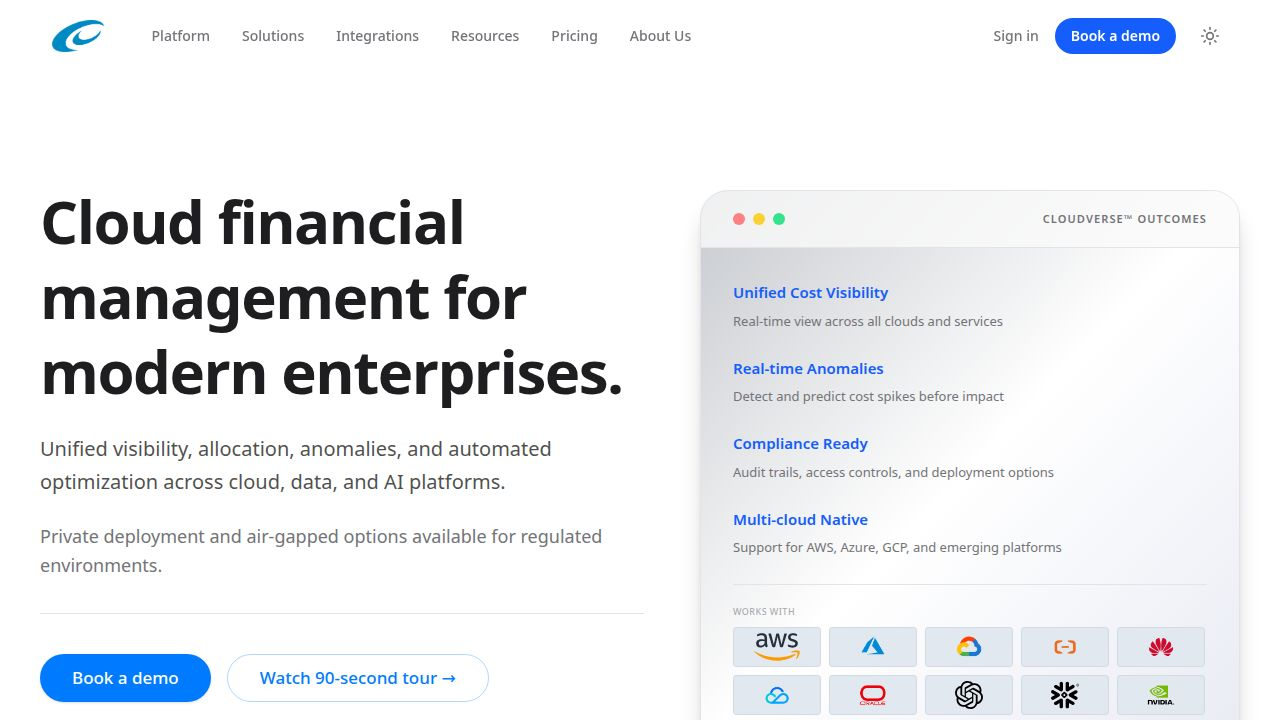
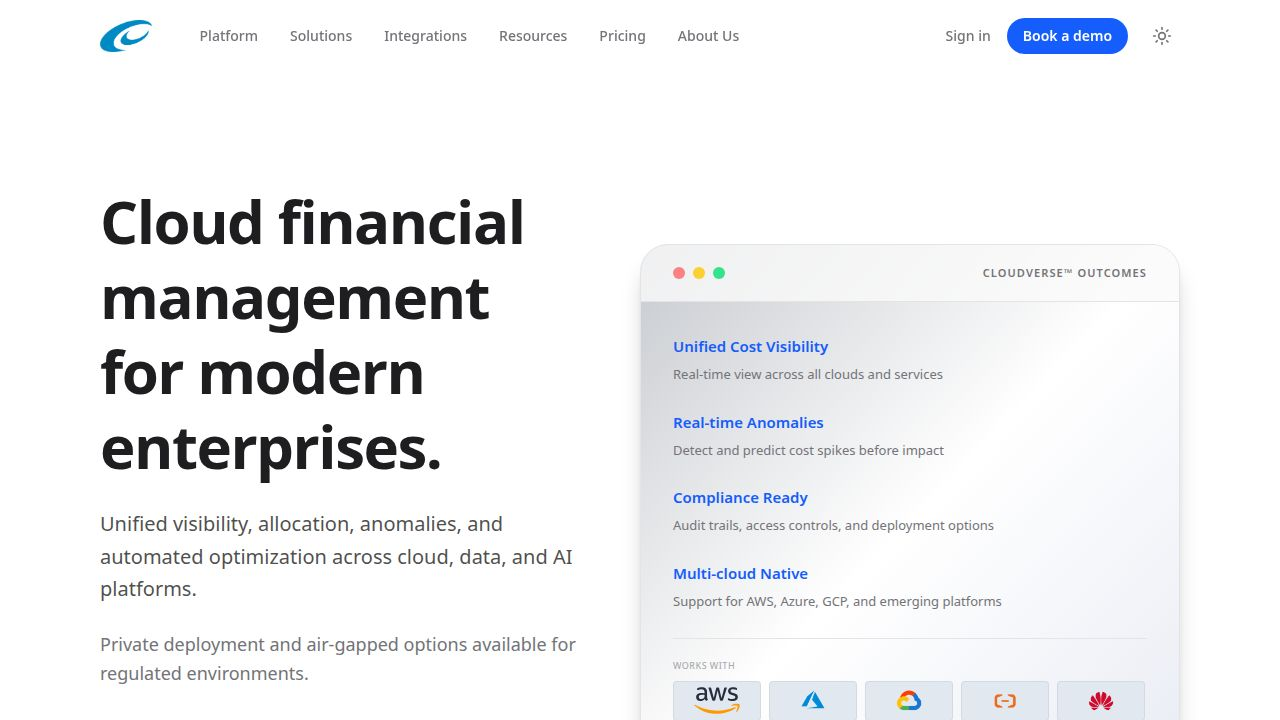
Standardize website padding and layout for better mobile responsiveness
Adjusted section padding and container widths across multiple pages (BookDemo, Contact, Help, Home, Integrations, Legal, Pricing, Resources, Tour) to ensure consistent responsive behavior and prevent horizontal overflow on smaller screens. Updated hero section padding to a mobile-first approach and refined horizontal padding for broader compatibility.

Replit-Commit-Author: Agent
Replit-Commit-Session-Id: cc55be88-6012-4923-a548-e605ac5f138f
Replit-Commit-Checkpoint-Type: intermediate_checkpoint
Replit-Commit-Event-Id: b250a58a-af97-4b04-b53c-2de91e7fcf4b
Replit-Commit-Screenshot-Url: https://storage.googleapis.com/screenshot-production-us-central1/d8dacd2f-b214-4560-9121-caa3bb9575fb/cc55be88-6012-4923-a548-e605ac5f138f/ae2ERlS
Replit-Helium-Checkpoint-Created: true

diff --git a/client/src/pages/Home.tsx b/client/src/pages/Home.tsx
@@ -69,9 +69,9 @@ export default function Home() {
   return (
     <BaseLayout>
       {/* Hero Section */}
-      <section className="relative sm:pt-24 lg:pt-28 sm:pb-14 lg:pb-16 overflow-hidden pt-[50px] pb-[50px]">
+      <section className="relative pt-20 sm:pt-24 lg:pt-28 pb-12 sm:pb-14 lg:pb-16 overflow-hidden">
         <MotionHeroBackground />
-        <div className="max-w-[1400px] mx-auto px-5 sm:px-6 lg:px-10 relative z-10">
+        <div className="max-w-[1240px] mx-auto px-5 sm:px-6 lg:px-20 relative z-10">
           <div className="grid grid-cols-1 lg:grid-cols-[1fr_auto] gap-10 lg:gap-14 items-center">
             {/* Left: Copy Block */}
             <div className="text-center lg:text-left space-y-4 sm:space-y-6 max-w-[52rem] mx-auto lg:mx-0">

diff --git a/client/src/pages/Resources.tsx b/client/src/pages/Resources.tsx
@@ -14,7 +14,7 @@ export default function Resources() {
   return (
     <BaseLayout>
       {/* Hero */}
-      <section className="pt-24 sm:pt-28 lg:pt-32 pb-14 sm:pb-16 lg:pb-20">
+      <section className="pt-20 sm:pt-24 lg:pt-28 pb-12 sm:pb-14 lg:pb-16">
         <div className="cv-container-full space-y-4 sm:space-y-6">
           <div className="max-w-3xl">
             <span className="text-xs uppercase tracking-widest text-cv-muted mb-4 inline-block">CloudVerse™ Resources</span>

diff --git a/client/src/pages/BookDemo.tsx b/client/src/pages/BookDemo.tsx
@@ -9,7 +9,7 @@ export default function BookDemo() {
 
   return (
     <BaseLayout>
-      <section className="pt-20 sm:pt-24 lg:pt-32 pb-16 sm:pb-20 lg:pb-24">
+      <section className="pt-20 sm:pt-24 lg:pt-28 pb-12 sm:pb-16 lg:pb-20">
         <div className="max-w-[1240px] mx-auto px-5 sm:px-6 lg:px-20">
           <div className="max-w-3xl mx-auto text-center">
             <h1 className="text-4xl sm:text-5xl lg:text-6xl font-bold tracking-tight text-cv-ink mb-6">

diff --git a/client/src/pages/Integrations.tsx b/client/src/pages/Integrations.tsx
@@ -36,7 +36,7 @@ export default function Integrations() {
   return (
     <BaseLayout>
       {/* Hero */}
-      <section className="pt-24 sm:pt-28 lg:pt-32 pb-14 sm:pb-16 lg:pb-20">
+      <section className="pt-20 sm:pt-24 lg:pt-28 pb-12 sm:pb-14 lg:pb-16">
         <div className="cv-container-full space-y-6">
           <div className="max-w-[900px]">
             <span className="cv-cap font-semibold tracking-widest text-cv-muted uppercase mb-4 inline-block">

diff --git a/client/src/pages/Tour.tsx b/client/src/pages/Tour.tsx
@@ -8,7 +8,7 @@ export default function Tour() {
 
   return (
     <BaseLayout>
-      <section className="pt-20 sm:pt-24 lg:pt-32 pb-16 sm:pb-20 lg:pb-24">
+      <section className="pt-20 sm:pt-24 lg:pt-28 pb-12 sm:pb-16 lg:pb-20">
         <div className="max-w-[1240px] mx-auto px-5 sm:px-6 lg:px-20">
           <div className="max-w-3xl mx-auto text-center">
             <h1 className="text-4xl sm:text-5xl lg:text-6xl font-bold tracking-tight text-cv-ink mb-6">

diff --git a/client/src/pages/Pricing.tsx b/client/src/pages/Pricing.tsx
@@ -59,7 +59,7 @@ export default function Pricing() {
   return (
     <BaseLayout>
       {/* Hero */}
-      <section className="pt-24 sm:pt-28 lg:pt-32 pb-14 sm:pb-16 lg:pb-20">
+      <section className="pt-20 sm:pt-24 lg:pt-28 pb-12 sm:pb-14 lg:pb-16">
         <div className="cv-container text-center space-y-4 sm:space-y-6 max-w-[720px] mx-auto">
           <span className="cv-cap font-semibold tracking-widest text-cv-muted uppercase">
             Pricing

diff --git a/client/src/pages/Help.tsx b/client/src/pages/Help.tsx
@@ -27,7 +27,7 @@ export default function Help() {
 
   return (
     <BaseLayout>
-      <section className="pt-16 lg:pt-24 pb-16 lg:pb-24 relative overflow-hidden">
+      <section className="pt-20 sm:pt-24 lg:pt-28 pb-12 sm:pb-16 lg:pb-20 relative overflow-hidden">
         <div className="max-w-[1240px] mx-auto px-5 sm:px-6 lg:px-20">
           <div className="max-w-2xl mx-auto">
             <div className="text-center mb-12 space-y-3">

diff --git a/client/src/pages/Legal.tsx b/client/src/pages/Legal.tsx
@@ -20,7 +20,7 @@ export default function Legal() {
 
   return (
     <BaseLayout>
-      <section className="pt-20 sm:pt-24 lg:pt-32 pb-16 sm:pb-20 lg:pb-24">
+      <section className="pt-20 sm:pt-24 lg:pt-28 pb-12 sm:pb-16 lg:pb-20">
         <div className="max-w-4xl mx-auto px-5 sm:px-6 lg:px-20">
           <h1 className="text-4xl sm:text-5xl font-bold tracking-tight text-cv-ink mb-8">
             {content.title}

diff --git a/client/src/pages/Contact.tsx b/client/src/pages/Contact.tsx
@@ -18,7 +18,7 @@ export default function Contact() {
 
   return (
     <BaseLayout>
-      <Section className="pt-32 max-w-2xl mx-auto">
+      <Section className="pt-20 sm:pt-24 lg:pt-28 pb-12 sm:pb-16 lg:pb-20 max-w-2xl mx-auto px-5 sm:px-6">
         <div className="text-center mb-12">
            <h1 className="mb-6">Contact Us</h1>
            <p className="text-xl text-muted-foreground">
